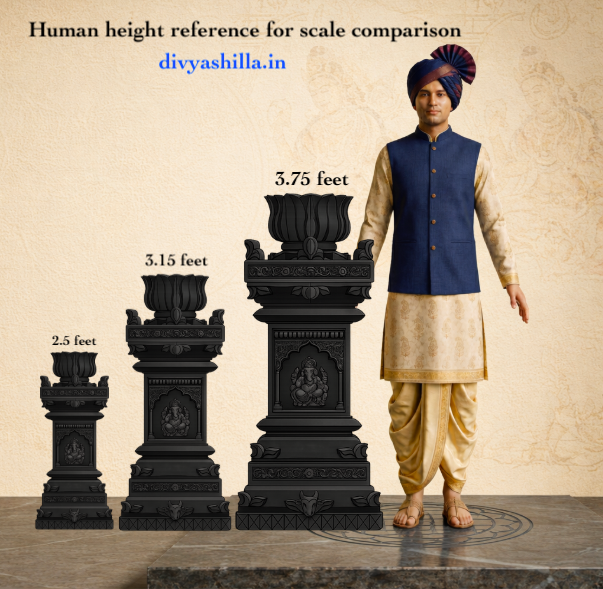
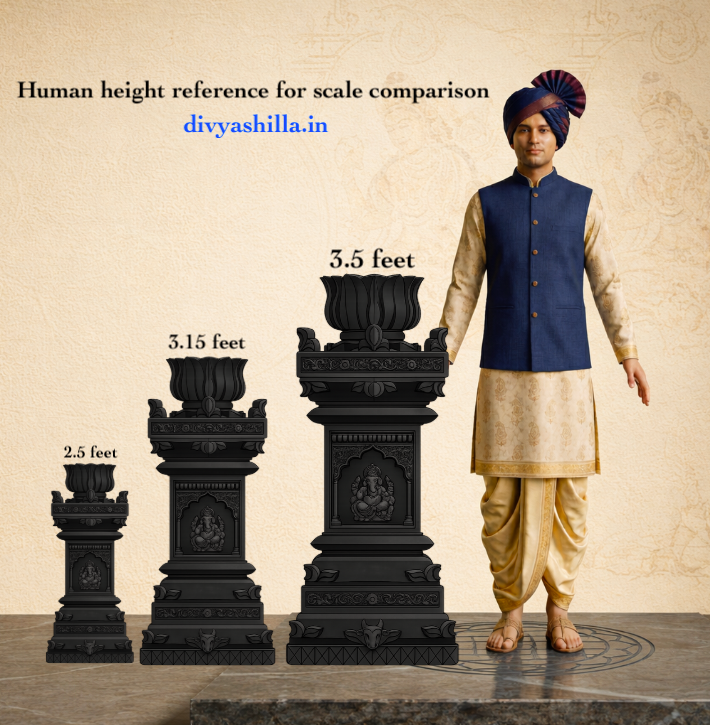
fix

diff --git a/readymade.html b/readymade.html
@@ -681,7 +681,7 @@ footer{background:var(--brown);color:var(--sand);padding:36px 6%;display:flex;ju
     <button class="filter-btn active" onclick="filterProducts('all',this)">All</button>
     <button class="filter-btn" onclick="filterProducts('small',this)">2.5 ft</button>
     <button class="filter-btn" onclick="filterProducts('medium',this)">3.15 ft</button>
-    <button class="filter-btn" onclick="filterProducts('large',this)">3.75 ft</button>
+    <button class="filter-btn" onclick="filterProducts('large',this)">3.5 ft</button>
     <button class="filter-btn" onclick="filterProducts('bestseller',this)">Bestsellers</button>
   </div>
   <div style="display:flex;align-items:center;gap:16px;flex-wrap:wrap;">
@@ -704,7 +704,7 @@ footer{background:var(--brown);color:var(--sand);padding:36px 6%;display:flex;ju
       <div class="sb-title">Size</div>
       <div class="sb-option"><input type="checkbox" id="f-s1" checked onchange="applyFilters()"><label for="f-s1">2.5 ft <span>(3)</span></label></div>
       <div class="sb-option"><input type="checkbox" id="f-s2" checked onchange="applyFilters()"><label for="f-s2">3.15 ft <span>(4)</span></label></div>
-      <div class="sb-option"><input type="checkbox" id="f-s3" checked onchange="applyFilters()"><label for="f-s3">3.75 ft <span>(2)</span></label></div>
+      <div class="sb-option"><input type="checkbox" id="f-s3" checked onchange="applyFilters()"><label for="f-s3">3.5 ft <span>(2)</span></label></div>
     </div>
     <div class="sb-section">
       <div class="sb-title">Style</div>
@@ -937,12 +937,12 @@ footer{background:var(--brown);color:var(--sand);padding:36px 6%;display:flex;ju
 
       <!-- PRODUCT 5 -->
       <div class="product-card" data-size="large" data-price="24000" data-badge="" data-style="majestic" data-rating="5.0" data-reviews="9"
-           data-name="Deep Nandi" data-desc="15 × 15 inch Tulsi Vrindavan with lotus carving and Nandi water outlet." data-specs="3.75 ft">
+           data-name="Deep Nandi" data-desc="15 × 15 inch Tulsi Vrindavan with lotus carving and Nandi water outlet." data-specs="3.5 ft">
         <div class="product-imgs" onclick="openProductModal(this.closest('.product-card'))">
           <div class="swiper-track">
             <img src="product_image/deep_nandi.png" alt="stone Tulsi Vrindavan design for home">
             <img src="product_image/deep_nandi_2.png" alt="stone Tulsi Vrindavan design for home">
-            <img src="refrence_image/3.75_ref.png" alt="Refrence image">
+            <img src="refrence_image/3.5_ref.png" alt="Refrence image">
           </div>
           <button class="swiper-arr prev" onclick="swiperPrev(event,this)">&#8592;</button>
           <button class="swiper-arr next" onclick="swiperNext(event,this)">&#8594;</button>
@@ -955,7 +955,7 @@ footer{background:var(--brown);color:var(--sand);padding:36px 6%;display:flex;ju
           <div class="prod-name">Deep Nandi</div>
           <div class="prod-desc">15 × 15 inch, 18 x 18 inch basc Tulsi Vrindavan with lotus carving and Nandi water outlet.</div>
           <div class="prod-specs">
-            <span class="prod-spec-tag">3.75 ft</span>
+            <span class="prod-spec-tag">3.5 ft</span>
             <span class="prod-spec-tag">Vitthu Mauli Stone Work</span>
             <!-- <span class="prod-spec-tag">Sculpted Column</span> -->
           </div>
@@ -967,12 +967,12 @@ footer{background:var(--brown);color:var(--sand);padding:36px 6%;display:flex;ju
 
       <!-- PRODUCT 6 -->
       <div class="product-card" data-size="large" data-price="18500" data-badge="sale" data-style="traditional" data-rating="4.7" data-reviews="52"
-           data-name="Shree Ram" data-desc="15 × 15 inch Tulsi Vrindavan with Shree Ram carving and Nandi outlet." data-specs="3.75 ft">
+           data-name="Shree Ram" data-desc="15 × 15 inch Tulsi Vrindavan with Shree Ram carving and Nandi outlet." data-specs="3.5 ft">
         <div class="product-imgs" onclick="openProductModal(this.closest('.product-card'))">
           <div class="swiper-track">
             <img src="product_image/shree_ram.png" alt="artisan carved Tulsi Vrindavan">
             <img src="product_image/shree_ram_2.jpeg" alt="Shree Ram detail">
-            <img src="refrence_image/3.75_ref.png" alt="artisan carved Tulsi Vrindavan">
+            <img src="refrence_image/3.5_ref.png" alt="artisan carved Tulsi Vrindavan">
           </div>
           <button class="swiper-arr prev" onclick="swiperPrev(event,this)">&#8592;</button>
           <button class="swiper-arr next" onclick="swiperNext(event,this)">&#8594;</button>
@@ -985,7 +985,7 @@ footer{background:var(--brown);color:var(--sand);padding:36px 6%;display:flex;ju
           <div class="prod-name">Shree Ram</div>
           <div class="prod-desc">15 × 15 inch Tulsi Vrindavan, 18 × 18 inch bace with Shree Ram carving and Nandi outlet.</div>
           <div class="prod-specs">
-            <span class="prod-spec-tag">3.75 ft</span>
+            <span class="prod-spec-tag">3.5 ft</span>
             <span class="prod-spec-tag">Vitthu Mauli Stone Work</span>
             <!-- <span class="prod-spec-tag">Simple Crown</span> -->
           </div>
@@ -1091,12 +1091,12 @@ footer{background:var(--brown);color:var(--sand);padding:36px 6%;display:flex;ju
 
       <!-- PRODUCT 10 -->
       <div class="product-card" data-size="large" data-price="22000" data-badge="" data-style="temple" data-rating="4.8" data-reviews="11"
-           data-name="Vitthal Rakhumai" data-desc="15 × 15 inch Tulsi Vrindavan with Vitthal Rakhumai carving and sacred symbols." data-specs="3.75 ft">
+           data-name="Vitthal Rakhumai" data-desc="15 × 15 inch Tulsi Vrindavan with Vitthal Rakhumai carving and sacred symbols." data-specs="3.5 ft">
         <div class="product-imgs" onclick="openProductModal(this.closest('.product-card'))">
           <div class="swiper-track">
             <img src="product_image/vitthal_rakhumai.png" alt="black stone Tulsi pot design">
             <img src="product_image/vitthal_rakhumai_2.jpeg" alt="black stone Tulsi pot design">
-            <img src="refrence_image/3.75_ref.png" alt="black stone Tulsi pot design">
+            <img src="refrence_image/3.5_ref.png" alt="black stone Tulsi pot design">
           </div>
           <button class="swiper-arr prev" onclick="swiperPrev(event,this)">&#8592;</button>
           <button class="swiper-arr next" onclick="swiperNext(event,this)">&#8594;</button>
@@ -1109,7 +1109,7 @@ footer{background:var(--brown);color:var(--sand);padding:36px 6%;display:flex;ju
           <div class="prod-name">Vitthal Rakhumai</div>
           <div class="prod-desc">15 × 15 inch Tulsi Vrindavan with Vitthal Rakhumai carving and sacred symbols.</div>
           <div class="prod-specs">
-            <span class="prod-spec-tag">3.75 ft</span>
+            <span class="prod-spec-tag">3.5 ft</span>
             <span class="prod-spec-tag">Jotirling Stone Work</span> 
             <!-- <span class="prod-spec-tag">Stepped Shikhara</span> -->
           </div>
@@ -1213,12 +1213,12 @@ footer{background:var(--brown);color:var(--sand);padding:36px 6%;display:flex;ju
 
       <!-- PRODUCT 14 -->
       <div class="product-card" data-size="large" data-price="18500" data-badge="" data-style="traditional" data-rating="4.7" data-reviews="29"
-           data-name="Multi Flower" data-desc="15 × 15 inch Tulsi Vrindavan with floral Nakshi carving." data-specs="3.75 ft">
+           data-name="Multi Flower" data-desc="15 × 15 inch Tulsi Vrindavan with floral Nakshi carving." data-specs="3.5 ft">
         <div class="product-imgs" onclick="openProductModal(this.closest('.product-card'))">
           <div class="swiper-track">
             <img src="product_image/multi_flower.png" alt="artisan carved Tulsi Vrindavan">
             <img src="product_image/multi_flower_2.jpeg" alt="artisan carved Tulsi Vrindavan">
-            <img src="refrence_image/3.75_ref.png" alt="artisan carved Tulsi Vrindavan">
+            <img src="refrence_image/3.5_ref.png" alt="artisan carved Tulsi Vrindavan">
           </div>
           <button class="swiper-arr prev" onclick="swiperPrev(event,this)">&#8592;</button>
           <button class="swiper-arr next" onclick="swiperNext(event,this)">&#8594;</button>
@@ -1231,7 +1231,7 @@ footer{background:var(--brown);color:var(--sand);padding:36px 6%;display:flex;ju
           <div class="prod-name">Multi Flower</div>
           <div class="prod-desc">15 × 15 inch Tulsi Vrindavan with multiple flower designs and extra base.</div>
           <div class="prod-specs">
-            <span class="prod-spec-tag">3.75 ft</span>
+            <span class="prod-spec-tag">3.5 ft</span>
             <span class="prod-spec-tag">Vitthu Mauli Stone Work</span>
             <!-- <span class="prod-spec-tag">Sculpted Column</span> -->
           </div>
@@ -1342,7 +1342,7 @@ footer{background:var(--brown);color:var(--sand);padding:36px 6%;display:flex;ju
           <div class="swiper-track">
             <img src="product_image/hatti_vrindavan.png" alt="hatti vrindavan">
             <img src="product_image/hatti_vrindavan_2.jpeg" alt="hatti vrindavan detail">
-            <img src="refrence_image/3.75_ref.png" alt="Reference image">
+            <img src="refrence_image/4_ref.png" alt="Reference image">
           </div>
           <button class="swiper-arr prev" onclick="swiperPrev(event,this)">&#8592;</button>
           <button class="swiper-arr next" onclick="swiperNext(event,this)">&#8594;</button>

diff --git a/index.html b/index.html
@@ -235,7 +235,7 @@ footer{background:var(--brown);color:var(--sand);padding:32px 6%;display:flex;ju
 
 <!-- SEO text — invisible to users, indexed by Google -->
 <div class="seo-text" aria-hidden="true">
-  DivyaShilla handcrafted black stone Tulsi Vrindavan and Tulsi katta. Traditional stone Tulsi Vrindavan designs for home courtyards and temples. Black stone Tulsi katta delivered across India. Stone Tulsi Vrindavan online from skilled Indian artisans. Tulsi Vrindavan designs in 2.5 ft, 3.15 ft, and 3.75 ft sizes.
+  DivyaShilla handcrafted black stone Tulsi Vrindavan and Tulsi katta. Traditional stone Tulsi Vrindavan designs for home courtyards and temples. Black stone Tulsi katta delivered across India. Stone Tulsi Vrindavan online from skilled Indian artisans. Tulsi Vrindavan designs in 2.5 ft, 3.15 ft, and 3.5 ft sizes.
 </div>
 
 <!-- NAV -->
@@ -378,9 +378,9 @@ footer{background:var(--brown);color:var(--sand);padding:32px 6%;display:flex;ju
         <span class="sc-arr">→</span>
       </div>
       <div class="size-card" data-filter="large" onclick="goToSize(this)">
-        <div class="sc-thumb"><img src="refrence_image/3.75_ref.png" alt="3.75 ft Tulsi Vrindavan"></div>
+        <div class="sc-thumb"><img src="refrence_image/3.5_ref.png" alt="3.5 ft Tulsi Vrindavan"></div>
         <div class="sc-info">
-          <div class="sc-ft">3.75 ft</div>
+          <div class="sc-ft">3.5 ft</div>
           <div class="sc-desc">Grand · Large courtyards &amp; temples</div>
         </div>
         <span class="sc-arr">→</span>
